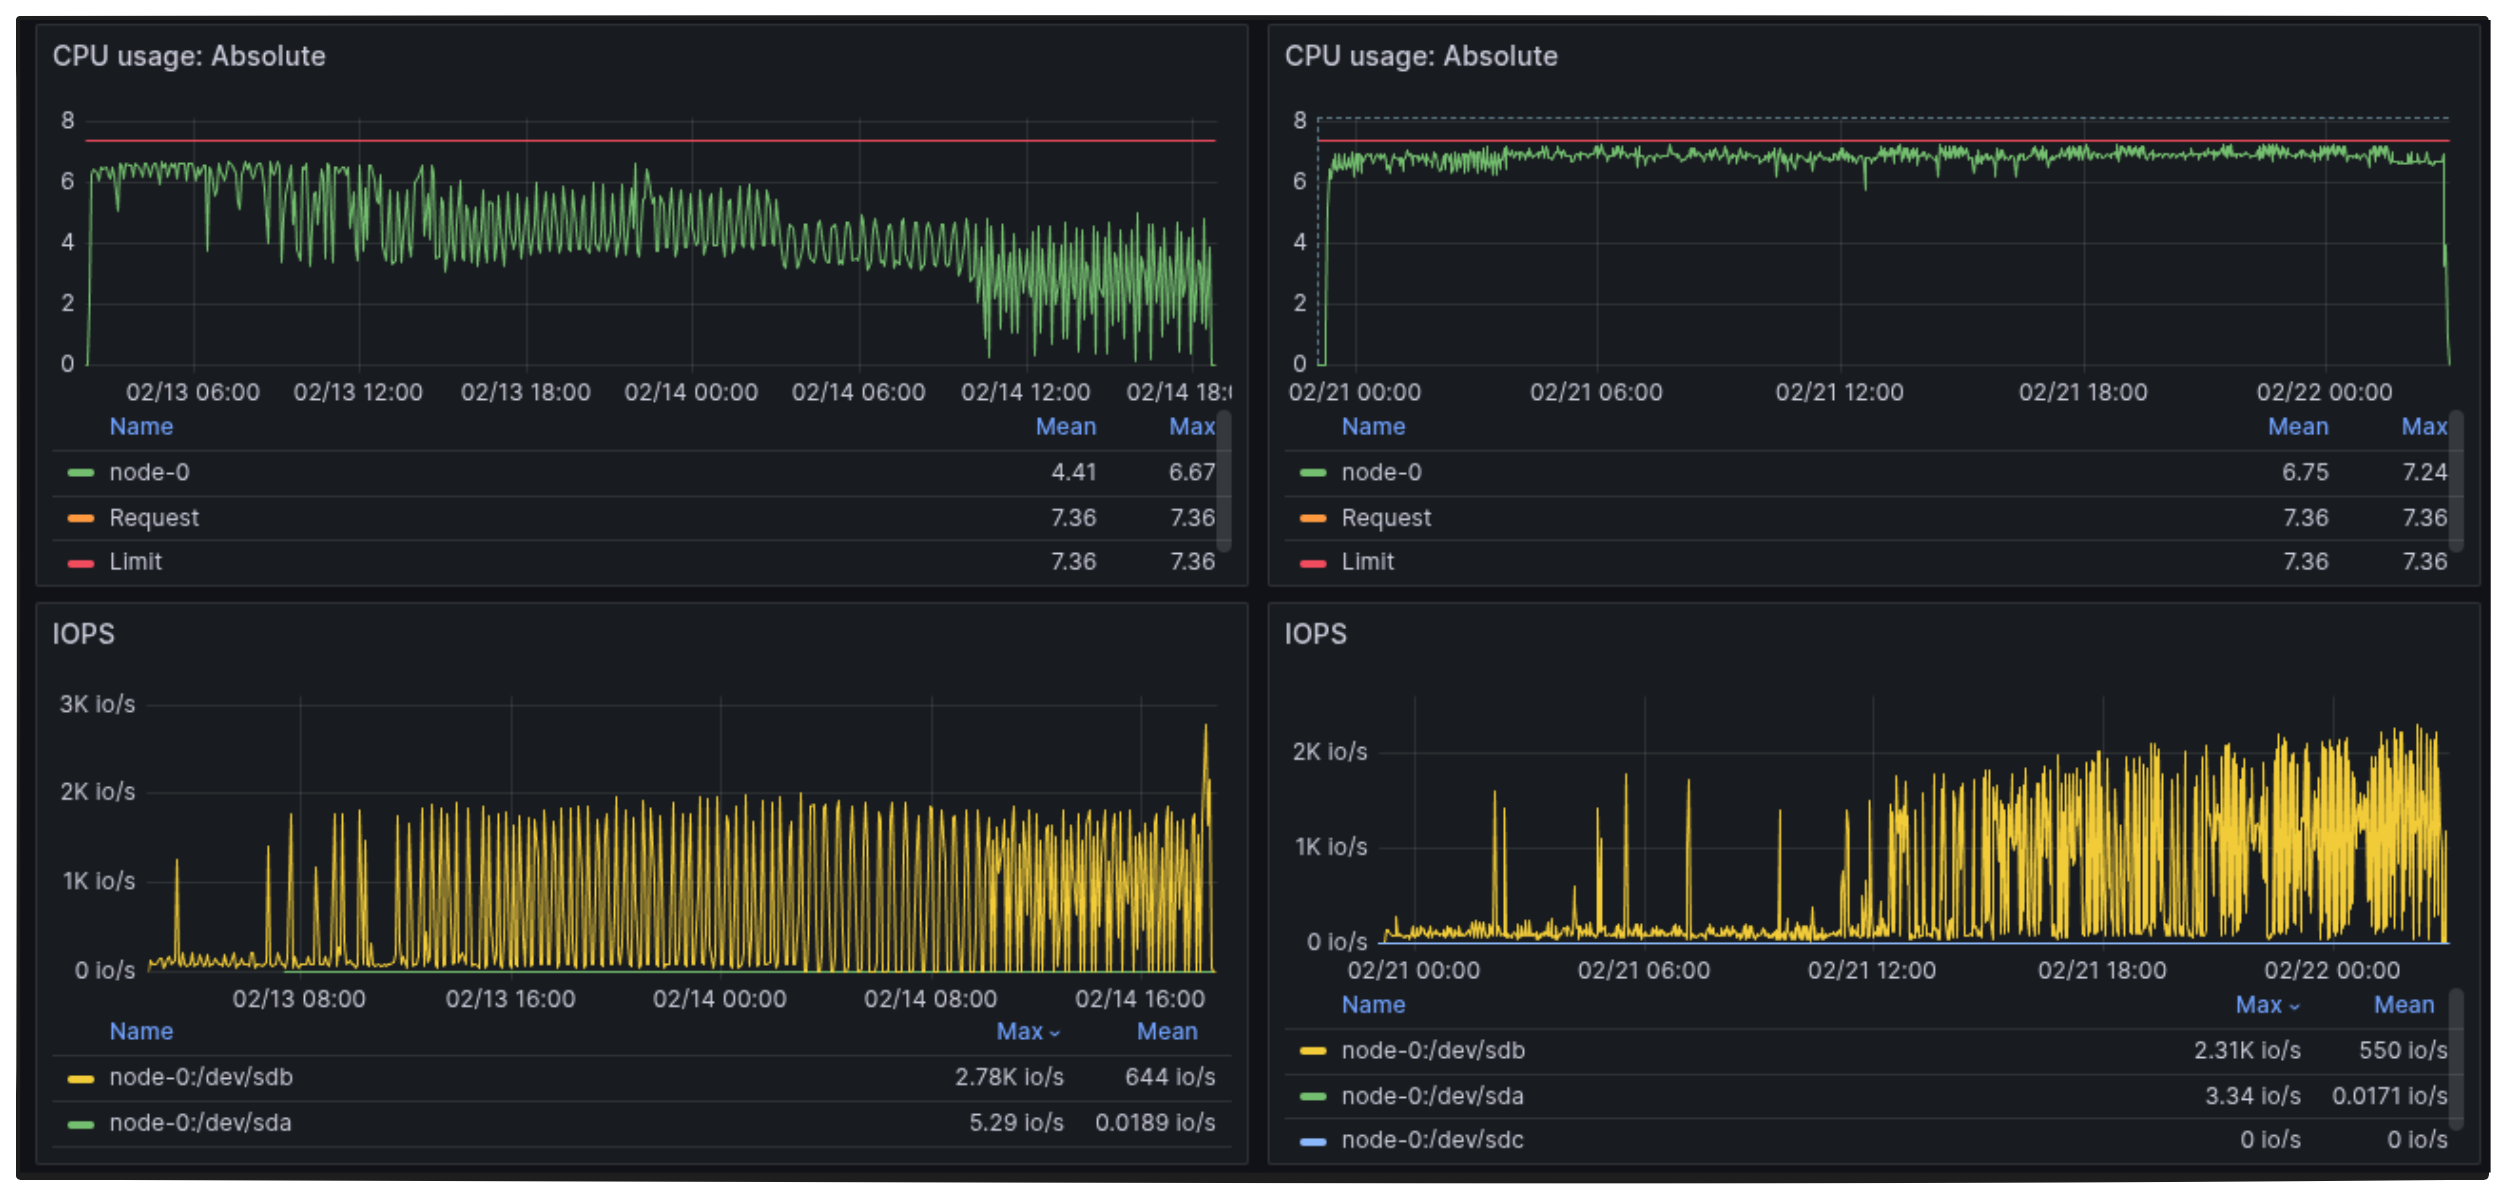
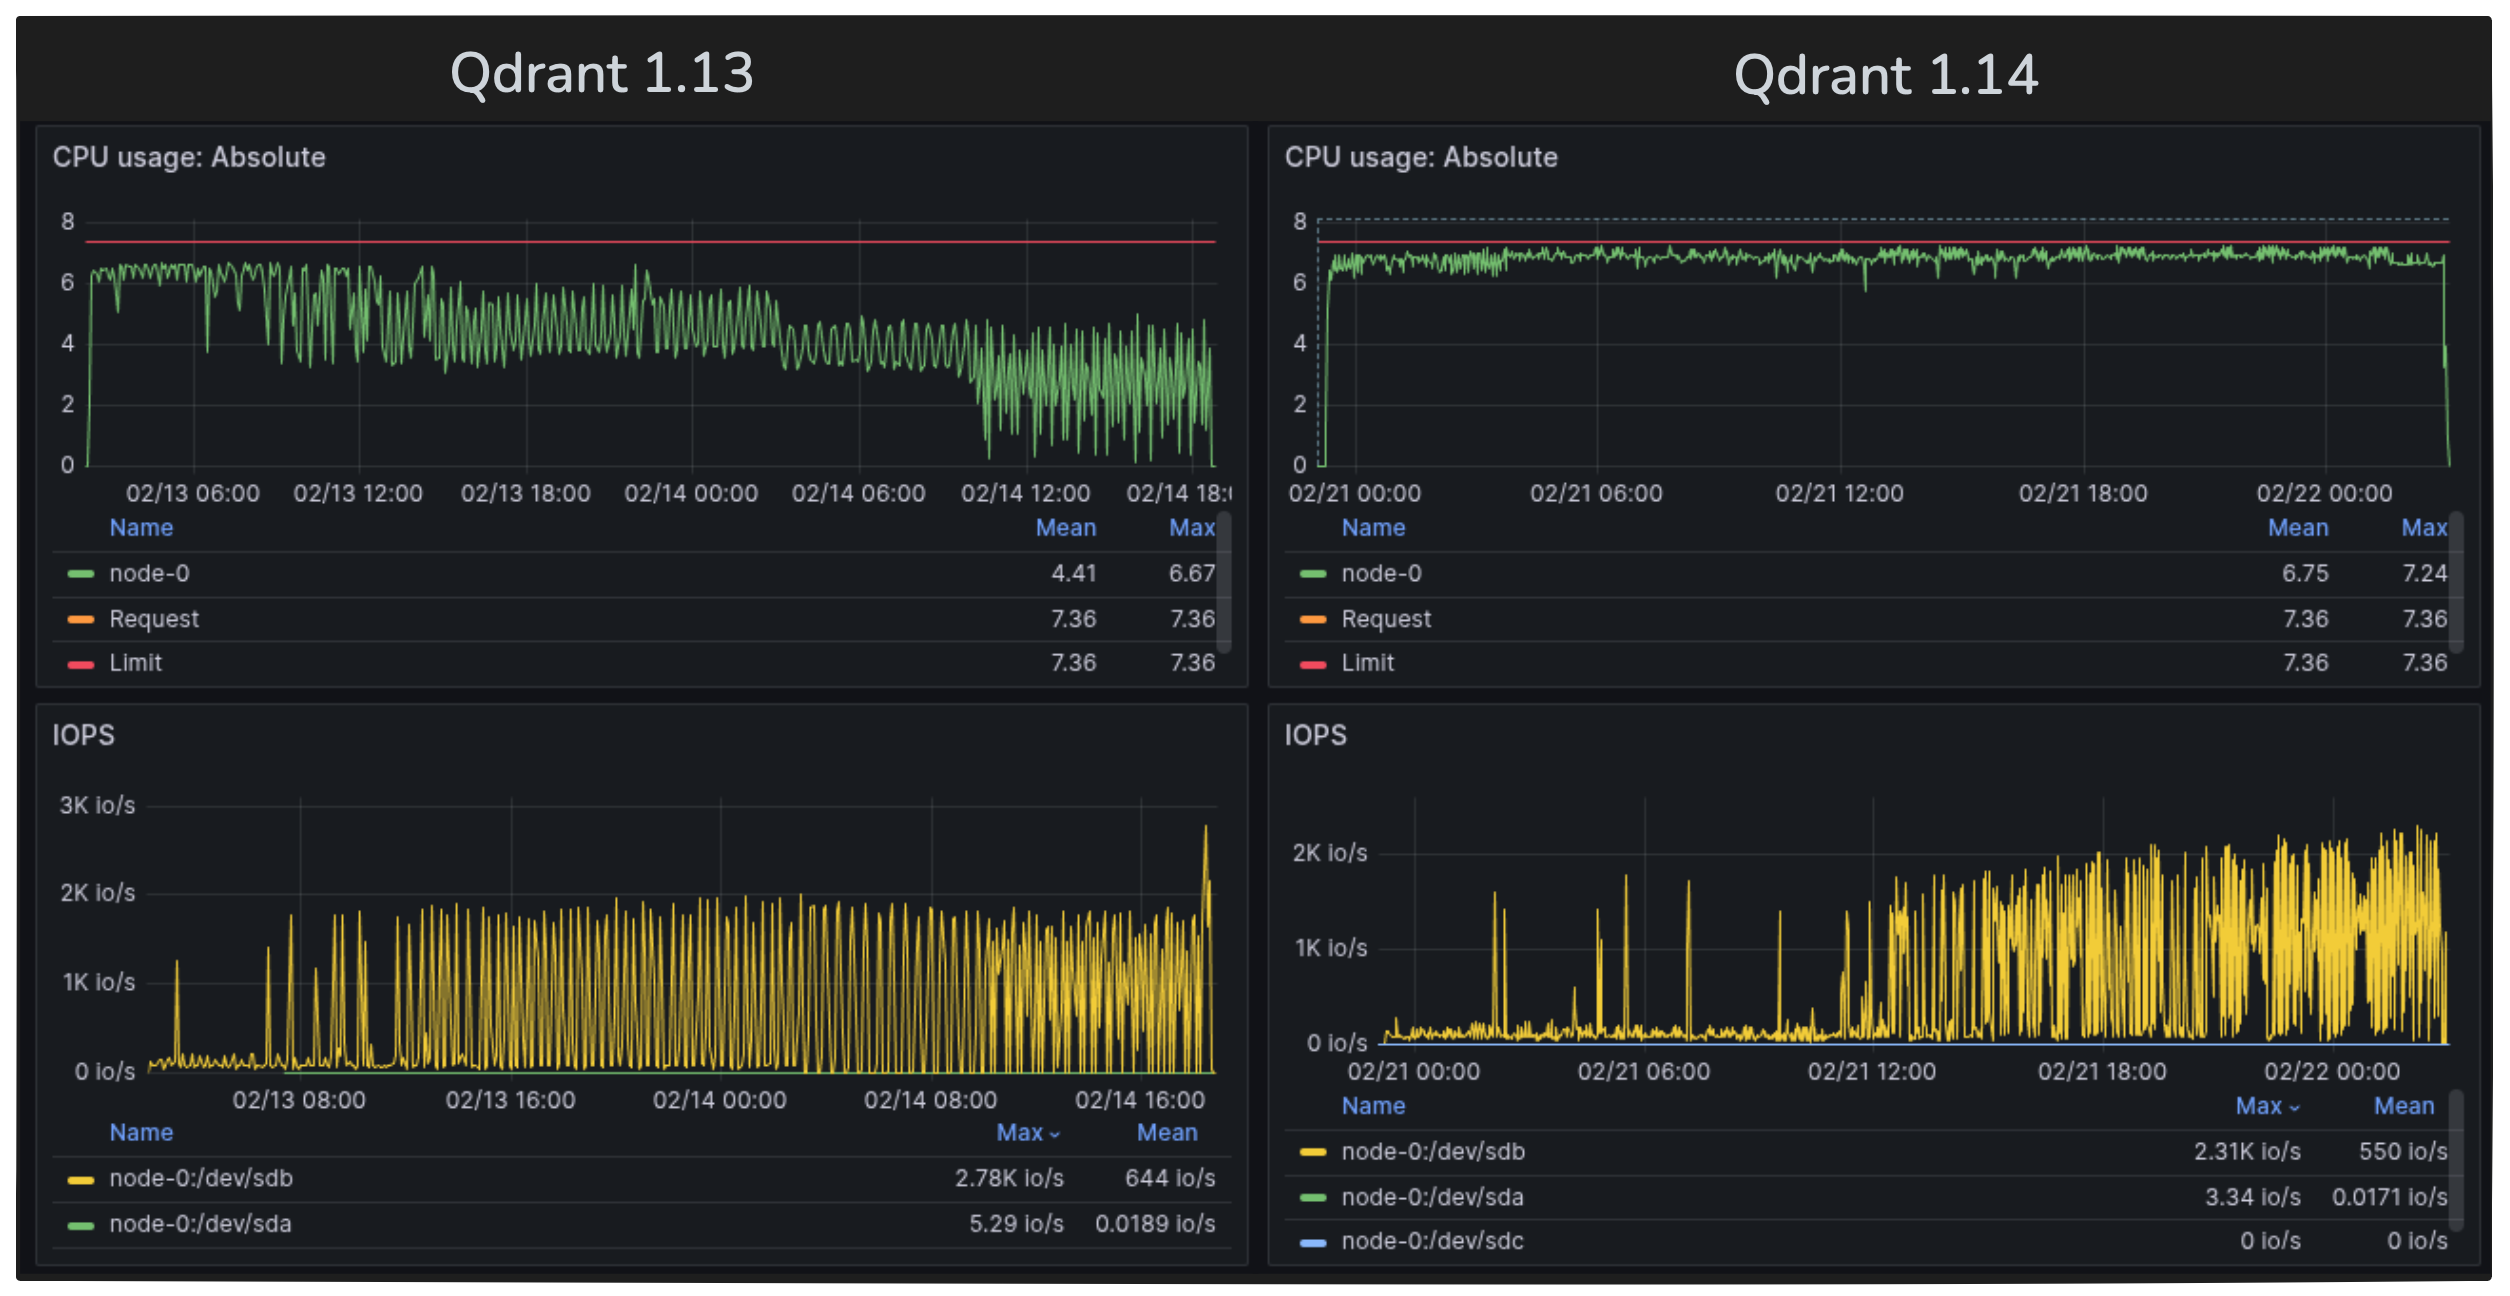
add images

diff --git a/qdrant-landing/content/blog/qdrant-1.14.x.md b/qdrant-landing/content/blog/qdrant-1.14.x.md
@@ -43,7 +43,14 @@ As you structure the query, you can define a `formula` that references both exis
 
 ### Idea 1: Prioritizing Website Content
 
-Imagine you have vectors for **titles**, **paragraphs**, and **code snippet** sections of your documentation. You can create a `tag` payload field that indicates whether a point is a title, paragraph, or snippet. Then, to give more weight to titles and paragraphs, you might do something like:
+Let's say you are trying to improve the search feature for a documentation site, such as our [**Developer Portal**](https://qdrant.tech/documentation/). You would chunk and vectorize all your documentation and store it in a Qdrant collection.
+
+**Figure 1:** Any time someone types in **hybrid queries**, you want to show them the most relevant result at the top.
+![reranking](/blog/qdrant-1.14.x/website-search.png)
+
+**Reranking** can help you prioritize the best results based on user intent.
+
+Your website collection can have vectors for **titles**, **paragraphs**, and **code snippet** sections of your documentation. You can create a `tag` payload field that indicates whether a point is a title, paragraph, or snippet. Then, to give more weight to titles and paragraphs, you might do something like:
 
 ```
 score = score + (is_title * 0.5) + (is_paragraph * 0.25)
@@ -158,6 +165,7 @@ You can tweak parameters like target, scale, and midpoint to shape how quickly t
 > This is a very powerful feature that allows for extensive customization. Read more about this feature in the [**Hybrid Queries Documentation**](/documentation/concepts/hybrid-queries/)
 
 ## Improved Resource Use During Segment Optimization
+![optimizations](/blog/qdrant-1.14.x/optimizations.jpg)
 
 Qdrant now **saturates CPU and disk IO** more effectively in parallel when optimizing segments. This helps reduce the "sawtooth" usage pattern—where CPU or disk often sat idle while waiting on the other resource.
 
@@ -167,18 +175,14 @@ It also gives you **predictable performance**, as there are fewer sudden spikes 
 **Figure 1:** Indexing 400 million vectors - CPU and disk usage profiles. Previous Qdrant version on the left, new Qdrant version on the right.
 ![indexation-improvement](/blog/qdrant-1.14.x/indexation.png)
 
-**Observed Results:** The new version on the right clearly shows much better CPU saturation across the full process. The improvement is especially noticeable during large-scale indexing. In our experiment, **we indexed 400 million 512-dimensional vectors**. The previous version of Qdrant took around 40 hours on an 8-core machine, while the new version with this change completed the task in just 28 hours.
+**Observed Results:** The new version on the right clearly shows much better CPU saturation across the full process. The improvement is especially noticeable during large-scale indexing. 
+
+In our experiment, **we indexed 400 million 512-dimensional vectors**. The previous version of Qdrant took around 40 hours on an 8-core machine, while the new version with this change completed the task in just 28 hours.
 
 > **Tutorial:** If you want to work with a large number of vectors, we can show you how. [**Learn how to upload and search large collections efficiently.**](/documentation/database-tutorials/large-scale-search/)
 
 ### Minor Fixes & Optimizations
 ![reranking](/blog/qdrant-1.14.x/gridstore.jpg)
-
-#### Optimized Memory Usage in Immutable Segments
-
-We revamped how the ID tracker and related metadata structures store data in memory. This can result in a notable RAM reduction for very large datasets (hundreds of millions of vectors).
-
-This causes **much lower overhead**, where memory savings let you store more vectors on the same hardware. Also, improved scalability is a major benefit. If your workload was near the RAM limit, this might let you push further **without using additional servers**.
 
 #### Ending our Reliance on RocksDB
 
@@ -188,11 +192,17 @@ Even though RocksDB is great for general-purpose use cases, it hasn’t been an 
 
 These limitations can lead to issues like latency spikes that are difficult to diagnose or mitigate. Our long-term goal is to fully eliminate RocksDB to gain complete control over Qdrant’s performance and storage behavior. **That’s also why we built GridStore**—a key-value engine designed specifically for our needs.
 
-> The last remaining use of RocksDB is within mutable payload indices, and that too will be removed in a future release, fully cutting the dependency.
+> The last remaining use of RocksDB is within **mutable payload indices**, and that too will be removed in a future release, fully cutting the dependency.
 
 ![reranking](/blog/qdrant-1.14.x/gridstore.png)
 
 *Read more about how we built [**Gridstore, our custom key-value store**](/articles/gridstore-key-value-storage/).*
+
+#### Optimized Memory Usage in Immutable Segments
+
+We revamped how the ID tracker and related metadata structures store data in memory. This can result in a notable RAM reduction for very large datasets (hundreds of millions of vectors).
+
+This causes **much lower overhead**, where memory savings let you store more vectors on the same hardware. Also, improved scalability is a major benefit. If your workload was near the RAM limit, this might let you push further **without using additional servers**.
 
 #### I/O Measurements for Serverless Deployments
 
@@ -214,5 +224,8 @@ In **Qdrant Cloud**, simply go to your **Cluster Details** screen and select **V
 
 **Documentation:** For a full list of formula expressions, conditions, decay functions, and usage examples, see the official [**Qdrant documentation**](https://qdrant.tech/documentation) and the [**API reference**](https://api.qdrant.tech/). This includes detailed code snippets for popular languages and a variety of advanced reranking examples.
 
+#### Join the Discussion!
+
 **We'd love to hear your feedback:** If you have questions or want to share your experience, join our [**Discord**](https://qdrant.to/join-slack) or open an issue on [**GitHub**](https://github.com/qdrant/qdrant/issues).
 
+![community](/blog/qdrant-1.14.x/community.jpg)
